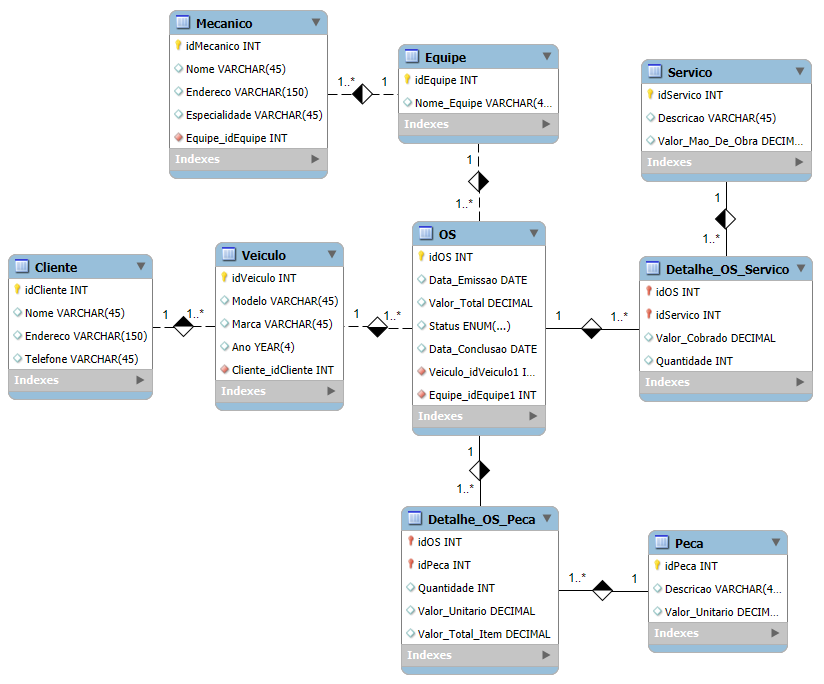
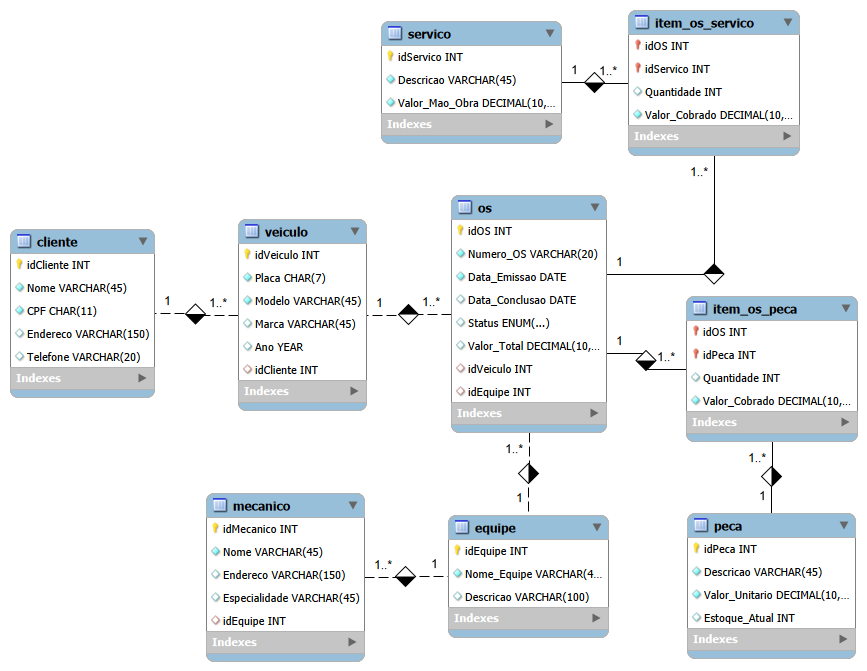
Realização do Desafio 4 e criação da tabelas, dados e testes.

diff --git a/README.md b/README.md
@@ -1,53 +1,77 @@
 # 🔧 Sistema de Gerenciamento de Oficina Mecânica
 
-Este projeto consiste na modelagem completa (Conceitual, Lógica e Física) de um banco de dados relacional para um sistema de controle e gerenciamento de ordens de serviço (OS) em uma oficina mecânica.
+Projeto de banco de dados completo (do zero a query) desenvolvido para um cenário de oficina mecânica. O projeto abrange a modelagem conceitual, lógica, criação do schema SQL, inserção de dados e uma bateria de testes com queries complexas.
 
-O esquema foi desenvolvido refinando requisitos de negócio para garantir integridade de dados, performance e escalabilidade, simulando um cenário real de mercado.
+## 📋 Visão Geral do Desafio
 
-## 📋 Descrição do Desafio e Narrativa
+O objetivo foi transformar uma narrativa de negócio em um banco de dados operacional.
 
-O objetivo foi criar um esquema conceitual do zero a partir da seguinte narrativa de negócio:
+**Cenário:**
+* Clientes levam veículos para conserto.
+* Mecânicos, organizados em equipes, executam serviços e utilizam peças.
+* Cada Ordem de Serviço (OS) consolida custos de mão-de-obra e peças.
 
-* **Clientes e Veículos:** Clientes levam veículos à oficina para conserto ou revisão. Um cliente pode ter vários veículos.
-* **Equipes e Mecânicos:** Os mecânicos são organizados em equipes (ex: Lataria, Motor). Uma equipe inteira é responsável por avaliar e executar os serviços em um veículo.
-* **Ordem de Serviço (OS):** O documento central que consolida os trabalhos. A OS possui número, data de emissão, status, valor total e data de conclusão.
-* **Composição de Custos:** O valor total da OS é calculado somando-se os **Serviços** (mão-de-obra baseada em tabela de referência) e as **Peças** utilizadas.
-* **Tabelas de Referência:** Os serviços e peças possuem tabelas próprias com valores padrão.
+**Destaque Técnico:**
+Este projeto refina o modelo padrão para resolver problemas reais de sistemas de produção:
+1.  **Histórico de Preços:** Implementação de tabelas associativas (`Item_OS...`) que salvam o valor histórico da peça/serviço no momento da venda, prevenindo erros financeiros futuros se a tabela de preços mudar.
+2.  **Tipagem Monetária:** Uso estrito de `DECIMAL` para cálculos financeiros precisos.
+3.  **Limpeza de Chaves:** Modelagem lógica refinada para evitar a propagação desnecessária de chaves estrangeiras (Snowball Effect).
 
-## 🛠 Tecnologias Utilizadas
+---
 
-* **Banco de Dados:** MySQL
-* **Ferramenta de Modelagem:** MySQL Workbench
-* **Linguagem:** SQL (DDL/DML)
+## 📐 Modelagem EER
 
-## 📐 Estrutura do Modelo (Destaques Técnicos)
+O esquema foi desenhado no MySQL Workbench, garantindo integridade referencial e normalização.
 
-### 1. Histórico de Preços (Integridade Financeira)
-Uma falha comum em sistemas iniciantes é vincular a OS diretamente ao preço atual da peça/serviço. Se o preço da peça mudar na tabela `Peca` daqui a 6 meses, todas as OS antigas teriam seus valores alterados incorretamente.
-* **Solução:** Implementação de atributos `Valor_Unitario` e `Valor_Cobrado` nas tabelas associativas (`Detalhe_OS_Peca` e `Detalhe_OS_Servico`). Isso "congela" o preço praticado no momento da venda, garantindo que o histórico financeiro permaneça imutável.
+![Diagrama EER da Oficina](img/diagrama_oficina.png)
 
-### 2. Tipagem de Dados Adequada
-* **Valores Monetários:** Uso estrito de `DECIMAL` em vez de `FLOAT` para garantir precisão nos cálculos financeiros e evitar erros de arredondamento de ponto flutuante.
-* **Datas:** Uso de `YEAR` para o ano do veículo e `DATE` para emissões/conclusões.
-* **Status:** Uso de `ENUM` para restringir o status da OS, garantindo consistência na máquina de estados (ex: 'Em Analise', 'Aprovado', 'Concluido').
+---
 
-## 📊 Diagrama Entidade-Relacionamento (EER)
+## 🚀 Queries e Resultados (Proof of Concept)
 
-![Diagrama EER da Oficina](/img/diagrama_oficina.png)
+Abaixo estão os resultados práticos das queries SQL desenvolvidas para responder a perguntas estratégicas do negócio.
 
-## 🗂 Dicionário de Dados Simplificado
+### 1. Relatório Geral de Ordens de Serviço
+**Objetivo:** Uma visão completa unindo as 4 tabelas principais (OS, Cliente, Veículo e Equipe) para identificar quem está fazendo o que.
+*Cláusulas:* `INNER JOIN`, `ORDER BY`.
 
-* `Cliente`: Dados cadastrais dos proprietários.
-* `Veiculo`: Dados do automóvel, vinculado a um cliente.
-* `Equipe`: Grupo de trabalho responsável pela execução.
-* `Mecanico`: Especialistas vinculados a uma equipe específica.
-* `OS`: Tabela central (Fato) que une Veículo e Equipe, contendo datas e status.
-* `Servico` / `Peca`: Tabelas de dimensão (catálogo) com descrições e preços de referência.
-* `Detalhe_OS_Servico`: Tabela associativa (N:N) que registra quais serviços foram feitos, quantidades e valores históricos.
-* `Detalhe_OS_Peca`: Tabela associativa (N:N) que registra quais peças foram usadas, quantidades e valores históricos.
+![Relatório Geral com Joins](img/query1.png)
 
-## 🚀 Como Executar
+### 2. Filtros e Ordenação de Serviços
+**Objetivo:** Listar serviços de alto valor (acima de R$ 60,00) ordenados do mais caro para o mais barato.
+*Cláusulas:* `WHERE`, `ORDER BY DESC`.
 
-1.  Clone este repositório.
-2.  Abra o arquivo `Oficina.mwb` no MySQL Workbench.
-3.  Execute o script para criar o esquema e as tabelas.
+![Filtro de Serviços](img/query2.png)
+
+### 3. Atributos Derivados (Cálculo de Subtotal)
+**Objetivo:** Calcular dinamicamente o valor total de itens dentro de uma OS específica, multiplicando quantidade por valor unitário.
+*Cláusulas:* `Atributo Derivado (Math)`, `Alias (AS)`.
+
+![Cálculo de Subtotal](img/query3.png)
+
+### 4. Inteligência de Clientes (Agregações)
+**Objetivo:** Identificar clientes fidelizados (que possuem mais de um veículo cadastrado) para campanhas de marketing.
+*Cláusulas:* `GROUP BY`, `HAVING`, `COUNT`.
+
+![Clientes com Múltiplos Veículos](img/query4.png)
+
+### 5. Cálculo Financeiro Robusto
+**Objetivo:** Calcular o faturamento real de uma OS finalizada, somando serviços e peças, tratando possíveis valores nulos.
+*Cláusulas:* `COALESCE`, `SUM`, `Subqueries`.
+
+![Cálculo Financeiro Total](img/query5.png)
+
+---
+
+## 🛠 Como Executar Este Projeto
+
+1.  **Clonar o Repositório:**
+    ```bash
+    git clone [https://github.com/danilogep/Oficina-SQL-Database-Specialist](https://github.com/danilogep/Oficina-SQL-Database-Specialist)
+    ```
+2.  **Criar o Banco:**
+    Abra o arquivo `script_tabelas.sql` no seu SGBD e execute para criar a estrutura.
+3.  **Popular Dados:**
+    Execute o arquivo `script_insert.sql` para carregar os dados de teste.
+4.  **Testar:**
+    Execute os scripts de consulta apresentados acima para validar os resultados.
